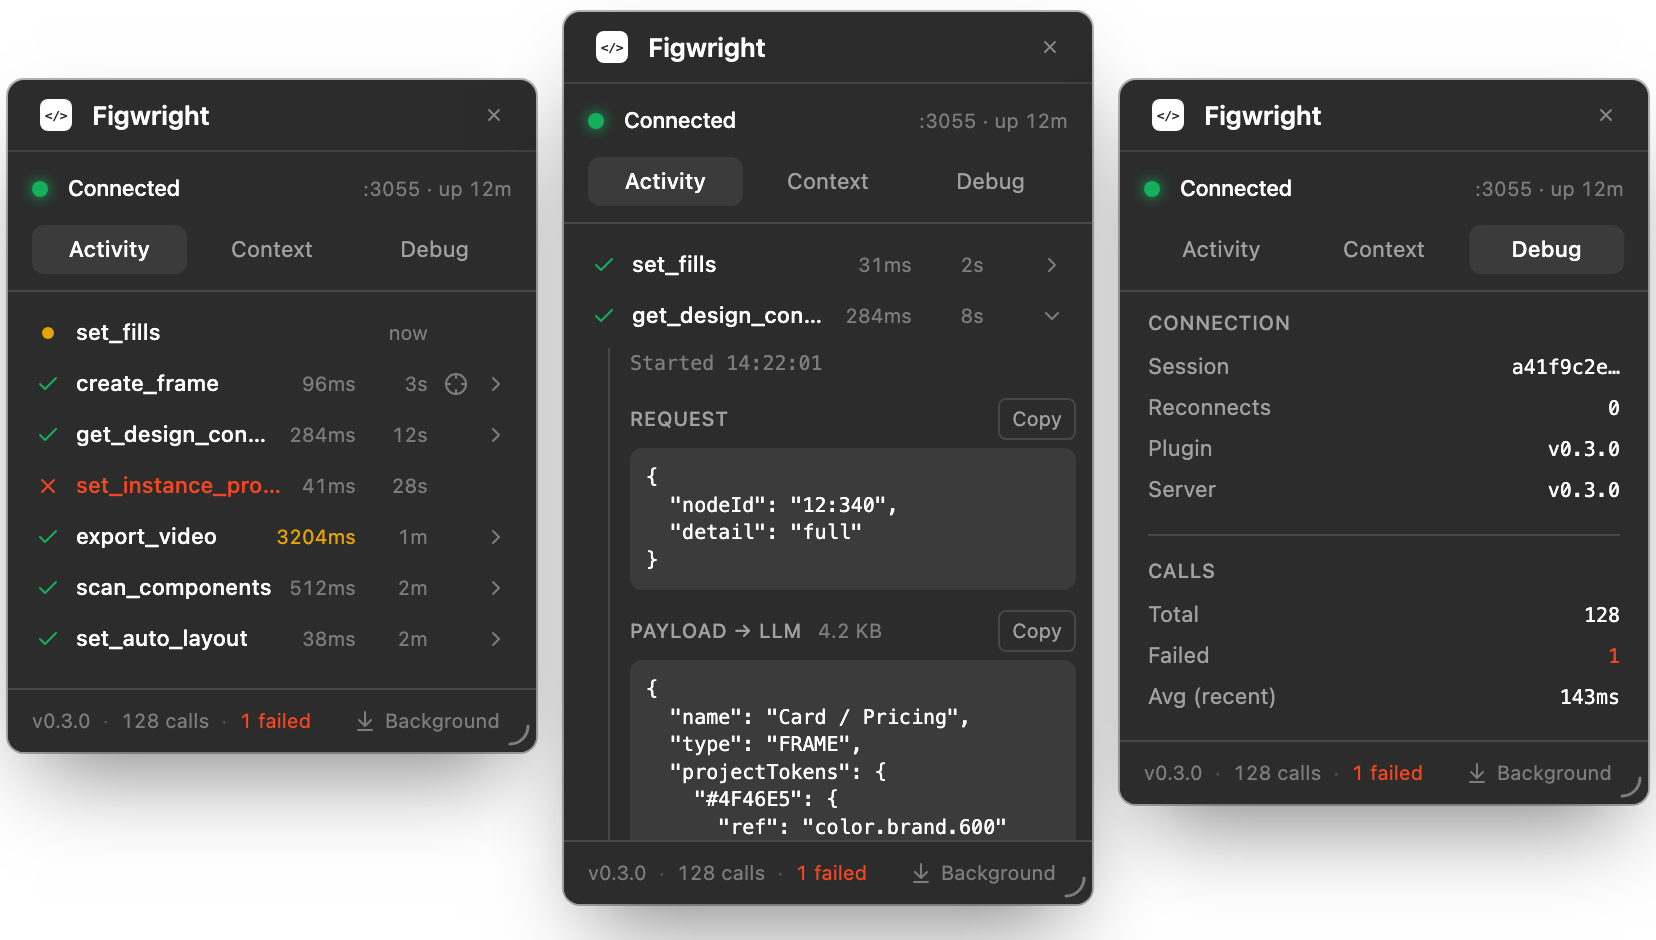
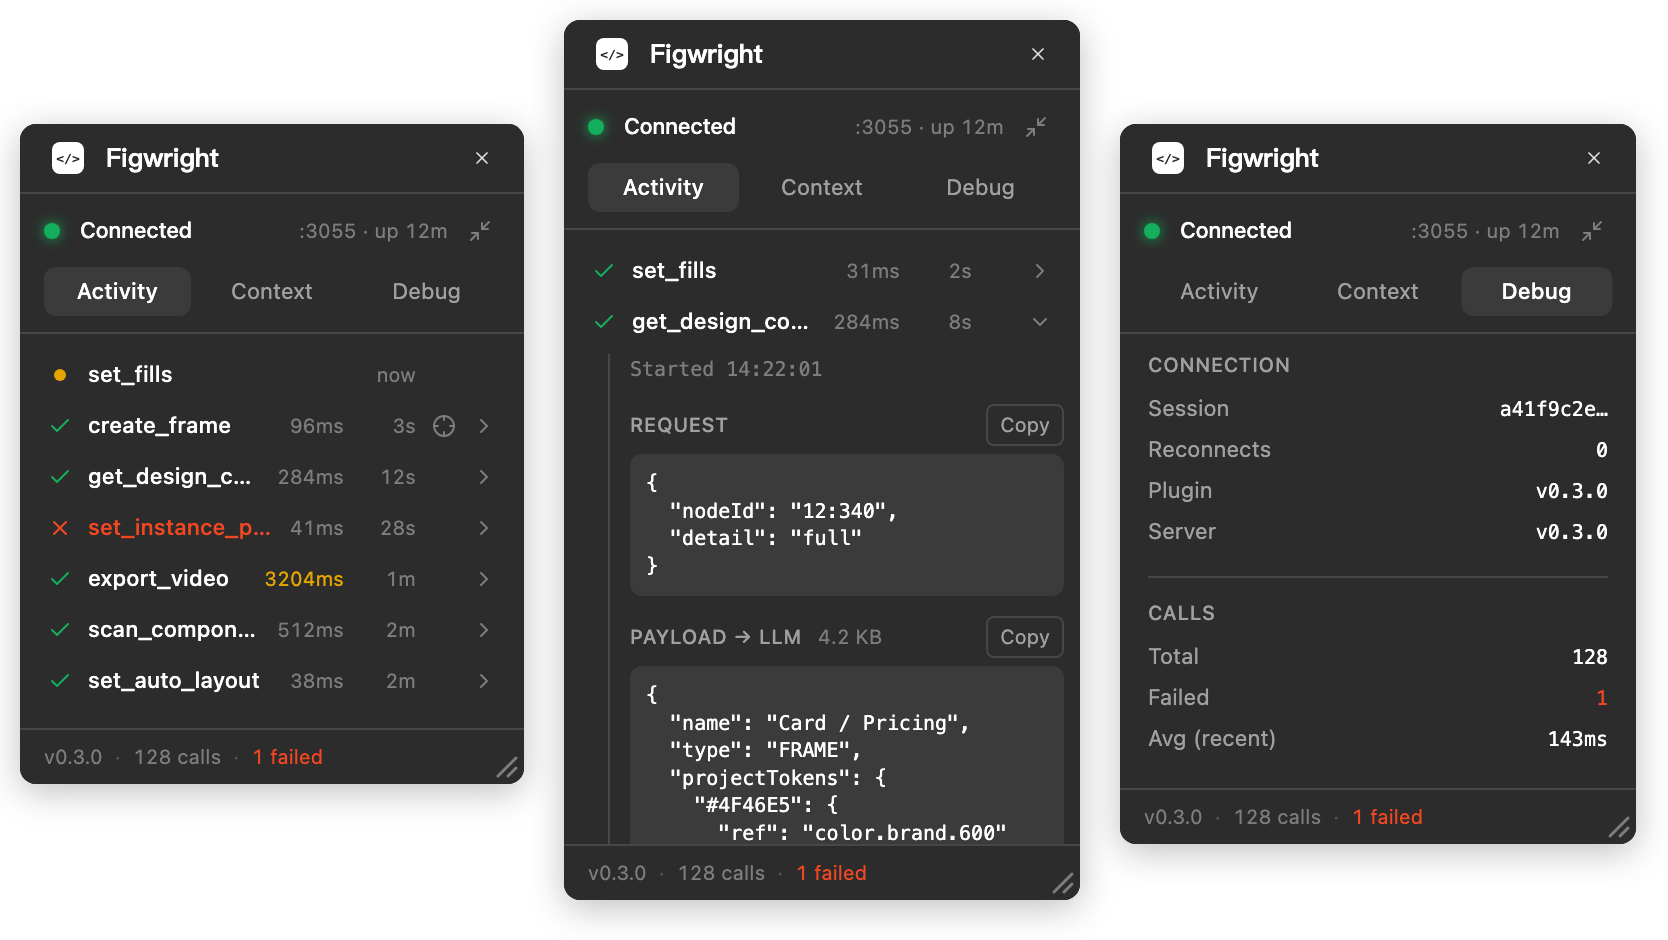
docs: refresh the plugin assets and show the window controls
The screenshots still had "Background" in the footer and the old arc in the
corner. Rebuild them against the current UI, and add a third image for the window
controls: the same panel at two widths — the narrow one showing three calls, the
wider one five, which is the point of resizing — with the run-in-background
button hovered.

Assets are generated from the panel's real compiled CSS with wholly synthetic
data, so they cannot leak design content.

diff --git a/README.md b/README.md
@@ -104,6 +104,16 @@ And it follows your Figma theme, light or dark.
   <img alt="The same panel side by side in Figma's light and dark themes" src="https://raw.githubusercontent.com/awdr74100/figwright/HEAD/.github/plugin-theme.png" width="616">
 </p>
 
+The window is yours to arrange. Drag the bottom-right corner to resize it — a taller panel keeps more of the log in view, and the size is remembered next time you open it. Or send it to the background: the panel gets out of your way while the connection stays live, so a long-running agent keeps working.
+
+<p align="center">
+  <img alt="The same panel at two sizes: a narrow one showing three calls with its resize corner highlighted, and a wider one showing five, with the run-in-background button highlighted in the header" src="https://raw.githubusercontent.com/awdr74100/figwright/HEAD/.github/plugin-window.png" width="602">
+</p>
+
+<p align="center">
+  <sub><b>Resize</b> — drag the corner, the size sticks · <b>Background</b> — the panel hides, the relay stays connected</sub>
+</p>
+
 ## Quick start
 
 ### 1. Add the server to your MCP client
